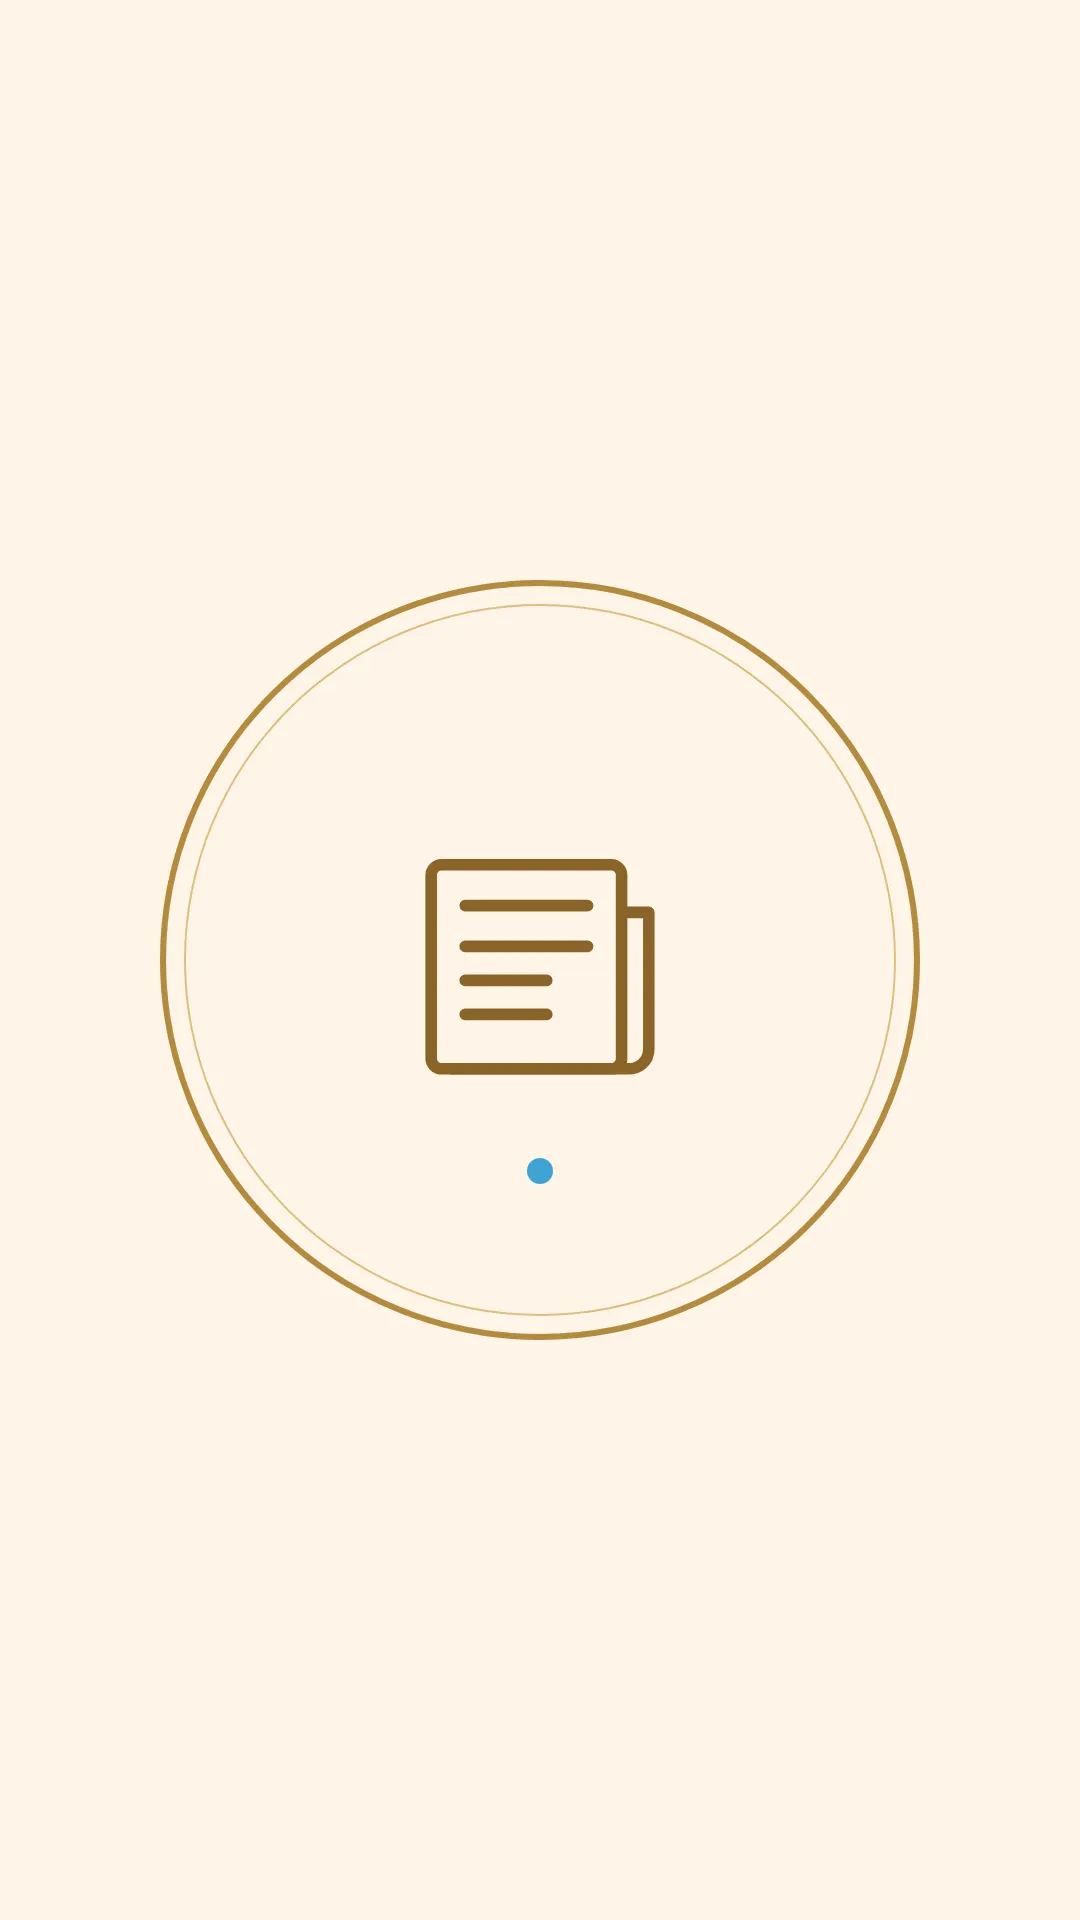
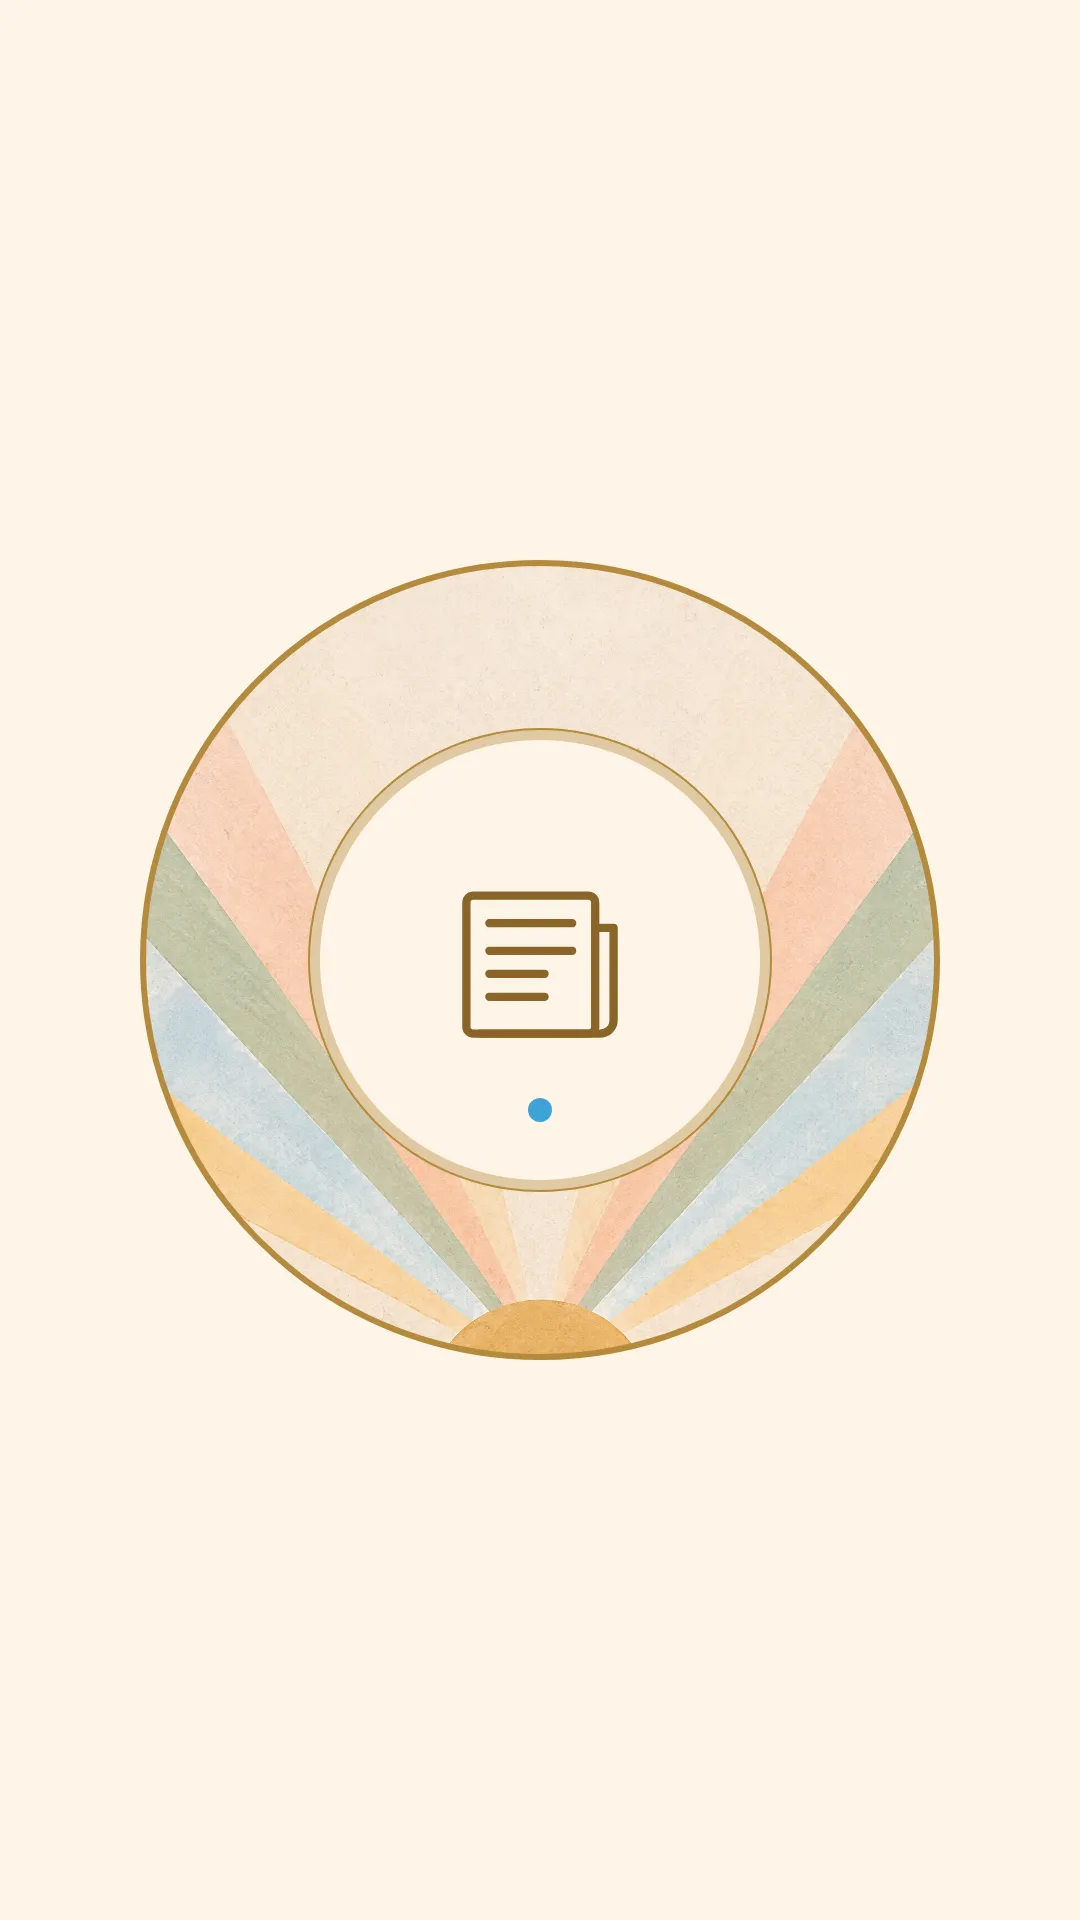
Holistico: pagina do Instagram refeita na linha clara (raios, janela em mandala, fotos ilustrativas) + carrossel do expositor (02/11)

Changed region(s): [[0.1222, 0.2812, 0.8861, 0.7188]]

diff --git a/public/excellence/2026-11-02-holistico-instagram/index.html b/public/excellence/2026-11-02-holistico-instagram/index.html
@@ -18,7 +18,7 @@
   <img class="logo" src="logo.png" alt="Excellence Eventos">
   <p class="olho">Material para aprovação · <span id="data"></span></p>
   <h1>Instagram do 5º Encontro Holístico</h1>
-  <p class="intro">O Instagram do Encontro repaginado: perfil, 7 posts novos (3 fixados no topo) e 6 destaques. O logo e a moldura de expositor vocês já aprovaram.</p>
+  <p class="intro">O Instagram do Encontro repaginado, agora com mais vida: o fundo de raios do perfil de vocês, a foto dentro da mandala do logo e as datas em destaque. Perfil, 7 posts novos (3 fixados no topo), 6 destaques e o carrossel de expositor. As fotos com pessoas são <b>imagens ilustrativas</b>, feitas por IA: quando vocês mandarem fotos das edições anteriores, elas entram no lugar.</p>
   <ol class="como">
     <li>Arraste a imagem pro lado pra ver as versões. Toque nela pra ampliar.</li>
     <li>Em cada peça, toque em <b>Aprovado</b> ou <b>Quero mudar</b>.</li>

diff --git a/public/excellence/2026-11-02-holistico-instagram/dados.js b/public/excellence/2026-11-02-holistico-instagram/dados.js
@@ -143,7 +143,8 @@ window.DADOS = {
      "etiqueta": "Post",
      "grupo": "Os 7 posts novos",
      "ordem": "4 de 7",
-     "nota": "Modelo do card de expositor. Sai em colaboração com o perfil do expositor.",
+     "nota": "A moldura que vocês aprovaram em 29/10, aqui só pra ver na ordem. Sai em colaboração com o perfil do expositor.",
+     "aprovado": "29/10",
      "slides": [
       {
        "src": "img/1-5-1.webp",
@@ -386,7 +387,7 @@ window.DADOS = {
    "id": "carrossel",
    "nome": "Carrossel",
    "titulo": "Carrossel do expositor",
-   "sub": "O carrossel que cada expositor confirmado recebe, na identidade nova. São duas opções: escolham uma e ela vira o padrão. O exemplo é a Claudia Cacau.",
+   "sub": "O carrossel que cada expositor confirmado recebe. São duas opções: escolham uma e ela vira o padrão. O exemplo é a Claudia Cacau.",
    "itens": [
     {
      "id": "2-1",
